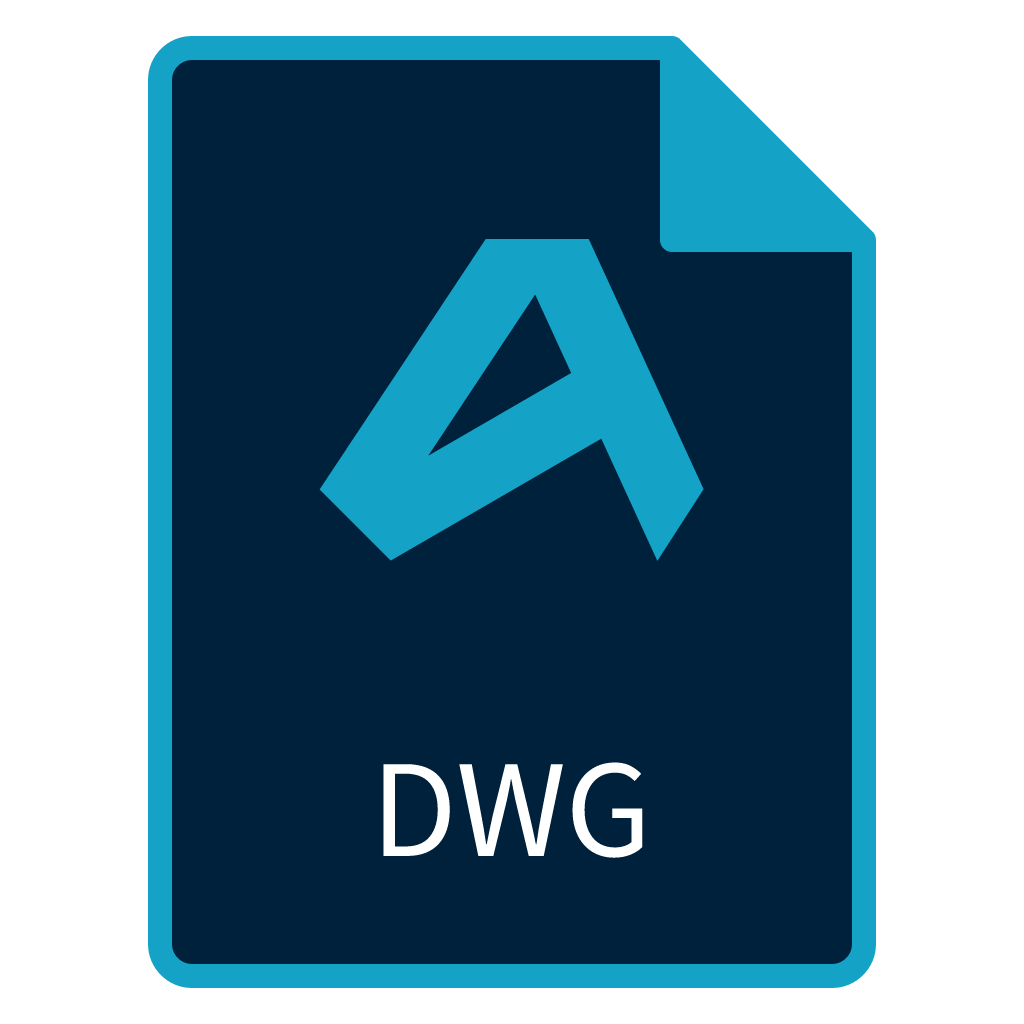
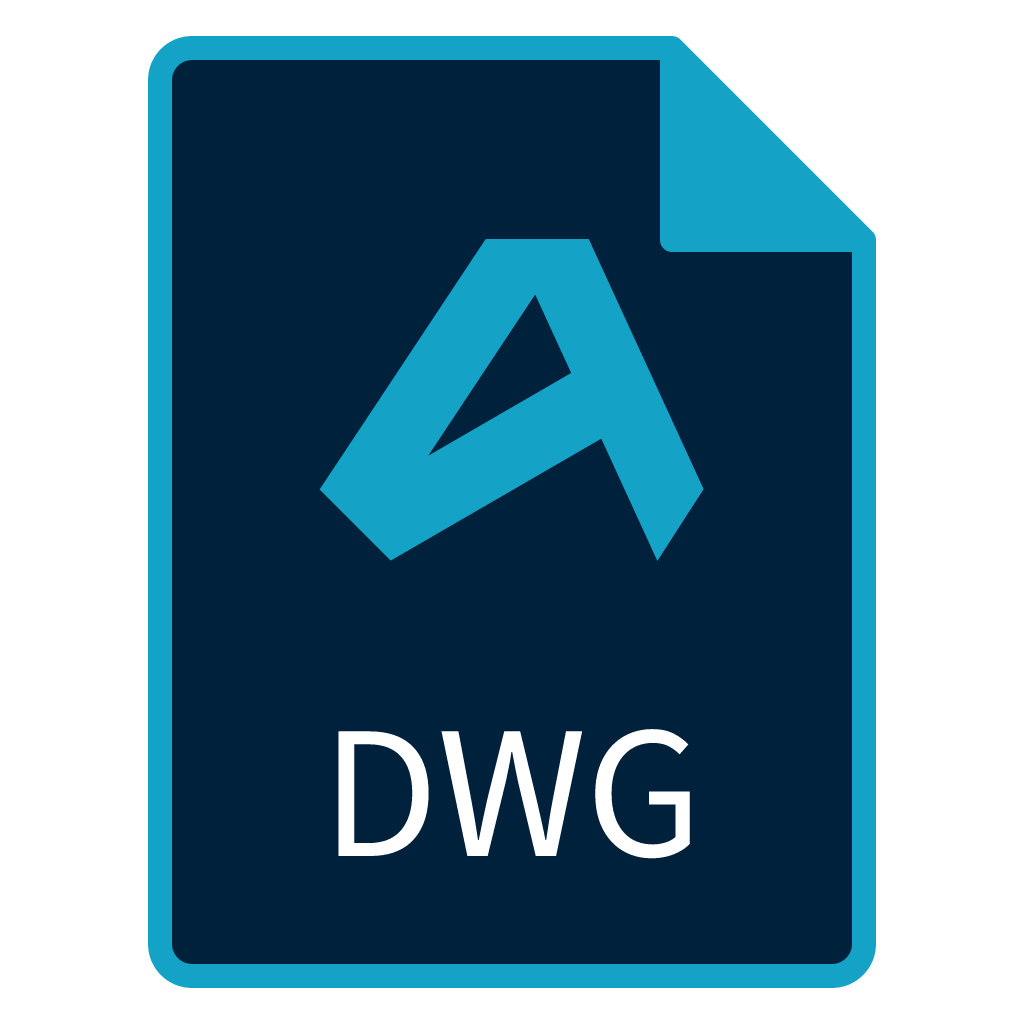
Resizing the label
Change the label font size from 140px to 190px

Changed region(s): [[0.3125, 0.6875, 0.6875, 0.8438]]

diff --git a/README.md b/README.md
@@ -27,7 +27,7 @@ All values are in pixels on a 1024×1024 canvas. The origin (0, 0) is the top-le
 | Corner radius | 32 |
 | Border width | 24 |
 | Emblem area | 384 × 384, centered horizontally, y: 400 → 784 |
-| Label baseline | 120 above the bottom edge of the sheet (y = 856) |
+| Label baseline | 120 above the bottom edge of the sheet (y = 856), font size → 190 |
 | Label max width | 480 |
 
 ### Folded corner geometry
